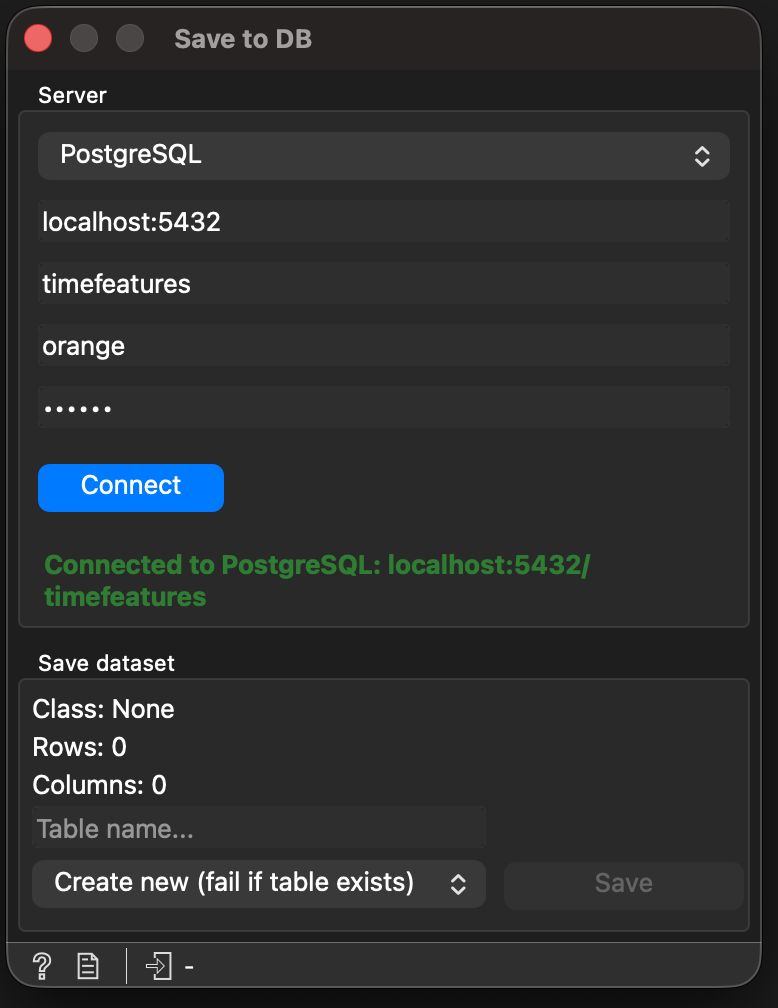
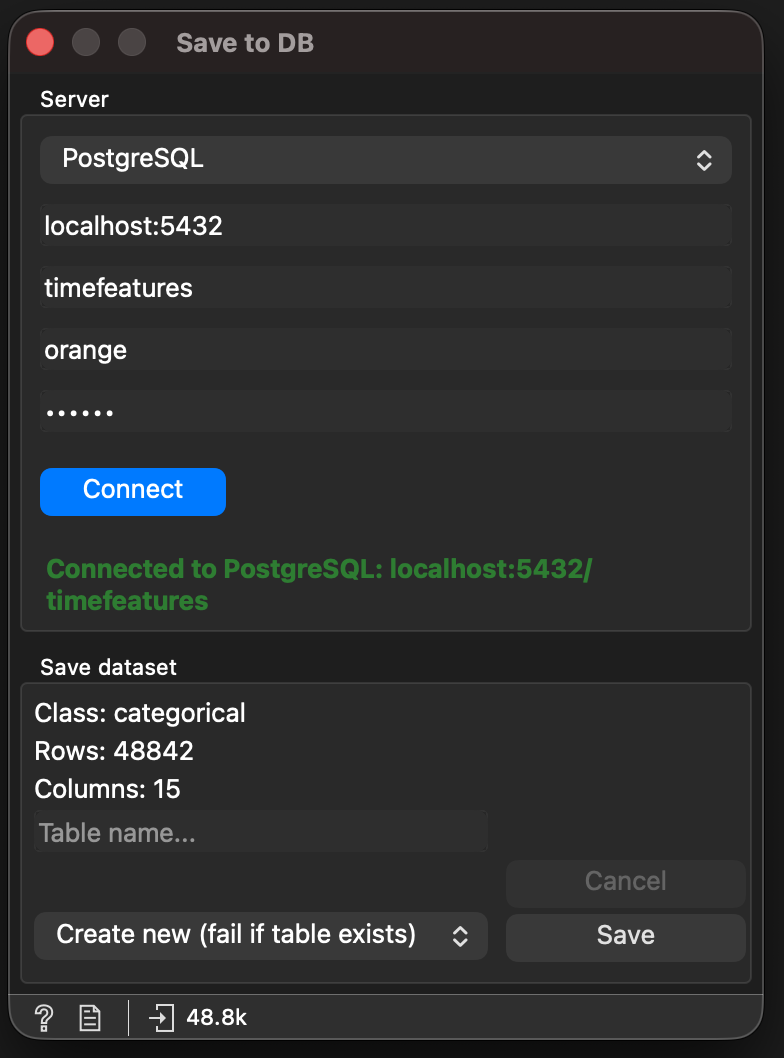
feat: add data preview and cancel functionality to database load/save widgets

diff --git a/timefeatures/widgets/owloadfromdb.py b/timefeatures/widgets/owloadfromdb.py
@@ -7,6 +7,7 @@ import Orange.data.pandas_compat as pc
 from AnyQt.QtCore import QObject, QThread, pyqtSignal
 from AnyQt.QtWidgets import (
     QComboBox, QGridLayout, QHBoxLayout, QLabel, QMessageBox, QPushButton,
+    QTableWidget, QTableWidgetItem
 )
 
 from Orange.data import Domain
@@ -103,12 +104,15 @@ class _LoadTableWorker(QObject):
 
     finished = pyqtSignal(object)
     failed = pyqtSignal(str)
+    progress_changed = pyqtSignal(float)
 
-    def __init__(self, dialect, connection_params, table_name):
+    def __init__(self, dialect, connection_params, table_name, total_rows):
         super().__init__()
         self.dialect = dialect
         self.connection_params = connection_params
         self.table_name = table_name
+        self.total_rows = total_rows
+        self.is_cancelled = False
 
     def run(self):
         import pandas as pd
@@ -120,10 +124,24 @@ class _LoadTableWorker(QObject):
             )
             qi = self.dialect.quote_ident
             with engine.begin() as connection:
-                frame = pd.read_sql(
+                chunks = []
+                loaded_rows = 0
+                for chunk in pd.read_sql(
                     text(f"SELECT * FROM {qi(self.table_name)}"),
                     connection,
-                )
+                    chunksize=1000
+                ):
+                    if self.is_cancelled:
+                        raise Exception("Load cancelled by user.")
+                    chunks.append(chunk)
+                    loaded_rows += len(chunk)
+                    if self.total_rows > 0:
+                        self.progress_changed.emit(10 + (loaded_rows / self.total_rows) * 60)
+                
+                if chunks:
+                    frame = pd.concat(chunks, ignore_index=True)
+                else:
+                    frame = pd.read_sql(text(f"SELECT * FROM {qi(self.table_name)} LIMIT 0"), connection)
             self.finished.emit(frame)
         except Exception as ex:  # pylint: disable=broad-except
             self.failed.emit(str(ex))
@@ -218,6 +236,8 @@ class owloadfromdb(OWBaseSql, OWWidget):
         self.btn_loaddata = None
         self.btn_refresh = None
         self.btn_delete = None
+        self.btn_cancel = None
+        self.preview_table = None
         self.data = None
         self._busy = False
         self._available = {}
@@ -335,7 +355,6 @@ class owloadfromdb(OWBaseSql, OWWidget):
         self.class_combo.currentTextChanged.connect(self._on_class_changed)
         layout.addWidget(self.class_combo, 2, 1, 1, 3)
 
-        # Row 3: Load button right-aligned.
         self.btn_loaddata = QPushButton(
             "Load",
             toolTip="Load the selected dataset into Orange.",
@@ -343,7 +362,27 @@ class owloadfromdb(OWBaseSql, OWWidget):
         )
         self.btn_loaddata.clicked.connect(self.load_data)
         self.btn_loaddata.setEnabled(False)
-        layout.addWidget(self.btn_loaddata, 3, 3)
+        
+        self.btn_cancel = QPushButton("Cancel", minimumWidth=80)
+        self.btn_cancel.clicked.connect(self.cancelLoad)
+        self.btn_cancel.setEnabled(False)
+        
+        button_row = QHBoxLayout()
+        button_row.setSpacing(0)
+        button_row.setContentsMargins(0, 0, 0, 0)
+        button_row.addStretch(1)
+        button_row.addWidget(self.btn_cancel)
+        button_row.addSpacing(20)
+        button_row.addWidget(self.btn_loaddata)
+        layout.addLayout(button_row, 3, 0, 1, 4)
+
+        # Row 4: Preview Table
+        layout.addWidget(QLabel("Data Preview (Top 50 rows):"), 4, 0, 1, 4)
+        self.preview_table = QTableWidget()
+        self.preview_table.setEditTriggers(QTableWidget.NoEditTriggers)
+        self.preview_table.setSelectionMode(QTableWidget.NoSelection)
+        self.preview_table.setFixedHeight(150)
+        layout.addWidget(self.preview_table, 5, 0, 1, 4)
 
     def _set_connection_status(self, message, state="neutral"):
         if self.connection_status_label is None:
@@ -376,10 +415,16 @@ class owloadfromdb(OWBaseSql, OWWidget):
         self.class_combo.setEnabled(False)
 
         self.btn_loaddata.setEnabled(False)
+        if self.btn_cancel is not None:
+            self.btn_cancel.setEnabled(False)
         if self.btn_refresh is not None:
             self.btn_refresh.setEnabled(False)
         if self.btn_delete is not None:
             self.btn_delete.setEnabled(False)
+        if self.preview_table is not None:
+            self.preview_table.clear()
+            self.preview_table.setRowCount(0)
+            self.preview_table.setColumnCount(0)
         self.dataset_info_label.setText(
             "Connect to a database to list available datasets."
         )
@@ -620,8 +665,7 @@ class owloadfromdb(OWBaseSql, OWWidget):
                 info += f" ({ds['class']})"
         self.dataset_info_label.setText(info)
 
-        # ``SELECT ... LIMIT 0`` is cheap (server only sends the column
-        # header back) so it's fine to run synchronously here.
+        # header back if 0, but 50 is also fast) so it's fine to run synchronously here.
         try:
             _, _, text, _ = _sqlalchemy_modules()
             engine = _create_sqlalchemy_engine(
@@ -630,13 +674,23 @@ class owloadfromdb(OWBaseSql, OWWidget):
             qi = self.dialect.quote_ident
             with engine.begin() as connection:
                 result = connection.execute(
-                    text(f"SELECT * FROM {qi(name)} LIMIT 0")
+                    text(f"SELECT * FROM {qi(name)} LIMIT 50")
                 )
                 columns = list(result.keys())
+                rows = [dict(row) for row in result.mappings()]
             engine.dispose()
         except Exception as ex:  # pylint: disable=broad-except
             self.Error.connection(str(ex))
             return
+            
+        self.preview_table.clear()
+        self.preview_table.setColumnCount(len(columns))
+        self.preview_table.setHorizontalHeaderLabels(columns)
+        self.preview_table.setRowCount(len(rows))
+        for r_idx, row in enumerate(rows):
+            for c_idx, col in enumerate(columns):
+                item = QTableWidgetItem(str(row[col]) if row[col] is not None else "")
+                self.preview_table.setItem(r_idx, c_idx, item)
 
         self.class_combo.blockSignals(True)
         self.class_combo.clear()
@@ -681,13 +735,17 @@ class owloadfromdb(OWBaseSql, OWWidget):
         )
 
         self._thread = QThread(self)
+        
+        total_rows = self._available[self.selected_dataset].get("rows", 0)
         self._worker = _LoadTableWorker(
             dialect=self.dialect,
             connection_params=self._connection_params(),
             table_name=self.selected_dataset,
+            total_rows=total_rows,
         )
         self._worker.moveToThread(self._thread)
         self._thread.started.connect(self._worker.run)
+        self._worker.progress_changed.connect(self.progressBarSet)
         self._worker.finished.connect(self._on_table_loaded)
         self._worker.failed.connect(self._on_table_failed)
         self._worker.finished.connect(lambda *_: self._thread.quit())
@@ -728,6 +786,13 @@ class owloadfromdb(OWBaseSql, OWWidget):
         self._set_connection_status(f"Load failed: {message}", "error")
         self.Outputs.data.send(None)
 
+    def cancelLoad(self):
+        if self._worker is not None:
+            self._worker.is_cancelled = True
+            if self.btn_cancel is not None:
+                self.btn_cancel.setEnabled(False)
+            self._set_connection_status("Cancelling load...", "neutral")
+
     def _set_load_controls_enabled(self, enabled):
         for widget in (
             self.connectbutton, self.btn_loaddata, self.backendcombo,
@@ -737,6 +802,8 @@ class owloadfromdb(OWBaseSql, OWWidget):
         ):
             if widget is not None:
                 widget.setEnabled(enabled)
+        if self.btn_cancel is not None:
+            self.btn_cancel.setEnabled(not enabled)
 
     def onDeleteWidget(self):
         if self._thread is not None and self._thread.isRunning():

diff --git a/timefeatures/widgets/owsavetodb.py b/timefeatures/widgets/owsavetodb.py
@@ -221,6 +221,7 @@ class _UploadWorker(QObject):
         self.email_params = email_params
         # One of "create" / "overwrite" / "append".
         self.write_mode = write_mode
+        self.is_cancelled = False
 
     def run(self):
         start_time = time.time()
@@ -292,6 +293,8 @@ class _UploadWorker(QObject):
 
                 # --- Data upload ---------------------------------------- #
                 for index, chunk in enumerate(_iter_dataframe_chunks(frame)):
+                    if self.is_cancelled:
+                        raise Exception("Upload cancelled by user.")
                     self.status_changed.emit(
                         f"Uploading rows {index + 1}/{total_chunks}..."
                     )
@@ -528,6 +531,7 @@ class owsavetodb(OWBaseSql, OWWidget):
         self.connection_status_label = None
         self.modeCombo = None
         self.emailDirection = None
+        self.btn_cancel = None
         self.data = None
         self.rows = 0
         self.cols = 0
@@ -627,6 +631,12 @@ class owsavetodb(OWBaseSql, OWWidget):
         #     placeholderText="Email... (Optional)", toolTip="Email direction")
         # layoutA.addWidget(self.emailDirection, 5, 0)
         self.emailDirection = None
+        
+        self.btn_cancel = QPushButton("Cancel", minimumWidth=120)
+        self.btn_cancel.clicked.connect(self.cancelUpload)
+        self.btn_cancel.setEnabled(False)
+        layoutA.addWidget(self.btn_cancel, 4, 2)
+        
         self.btn_savedata = QPushButton(
             "Save", toolTip="Save a dataset into a DB",
             minimumWidth=120
@@ -634,6 +644,7 @@ class owsavetodb(OWBaseSql, OWWidget):
         self.btn_savedata.clicked.connect(self.saveData)
         self.btn_savedata.setEnabled(False)
         layoutA.addWidget(self.btn_savedata, 5, 2)
+
         self._add_backend_controls()
         self._add_connection_status()
 
@@ -798,6 +809,14 @@ class owsavetodb(OWBaseSql, OWWidget):
         self._upload_thread.finished.connect(self._on_upload_thread_finished)
         self._upload_thread.start()
 
+    def cancelUpload(self):
+        if self._upload_worker is not None:
+            self._upload_worker.is_cancelled = True
+            if self.btn_cancel is not None:
+                self.btn_cancel.setEnabled(False)
+            self._set_connection_status("Cancelling upload...", "neutral")
+
+
     def _on_upload_status(self, message):
         self._set_connection_status(message, "neutral")
 
@@ -830,6 +849,8 @@ class owsavetodb(OWBaseSql, OWWidget):
             if widget is not None:
                 widget.setEnabled(enabled)
         self.btn_savedata.setEnabled(enabled and bool(self.data))
+        if self.btn_cancel is not None:
+            self.btn_cancel.setEnabled(not enabled)
 
     def onDeleteWidget(self):
         if self._upload_thread is not None and self._upload_thread.isRunning():